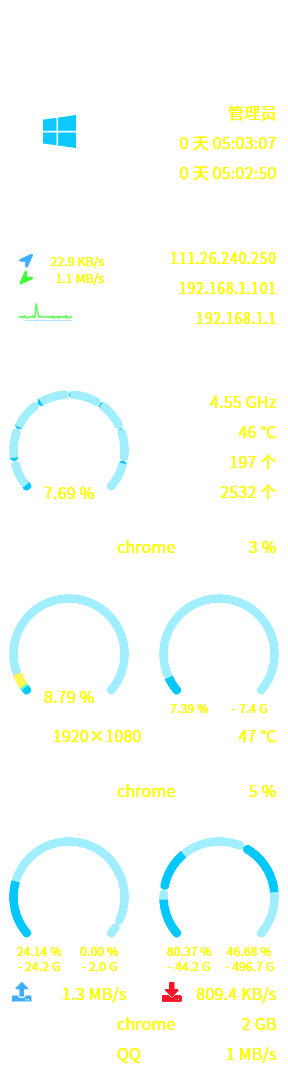
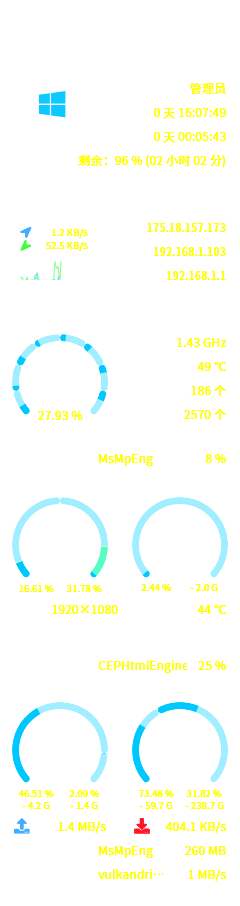
Fix the problem of wrong "Temperature Color"

diff --git a/README.md b/README.md
@@ -8,7 +8,7 @@
   <br />
[4 lines of base64/hex data omitted]
 </p>
 <br />
 
@@ -27,7 +27,7 @@
   <img src="Images/0.png" alt="详细系统监控 v3.0" title="详细系统监控 v3.0" width="900"/>
 </p>
 
-该皮肤目前最新版本为 **3.3**。该版本新增了对 Intel CPU 温度的监测；新增了隐藏广域网IP地址的功能；使用了一个新插件来进一步提高对显卡相关信息检测的准确度；优化修复一些已知问题。详细内容请查看 [**更新笔记**](Documents/History.md)。
+该皮肤目前最新版本为 **3.4**。该版本优化修复一些已知问题。详细内容请查看 [**更新笔记**](Documents/History.md)。
 
 
 ### 运行要求
@@ -43,9 +43,9 @@
 
 ### 安装方法
 
-　　本皮肤的官方发行版会使用 Rainmeter 自带皮肤打包器进行打包，安装包扩展名为 `.rmskin`。已经拥有 Rainmeter 软件的用户可在此仓库直接 [**下载**](../../releases/download/v3.3/DetailedSystemMonitor_v_3.3.rmskin) 最新的版本安装包到您的计算机，直接双击文件安装。
+　　本皮肤的官方发行版会使用 Rainmeter 自带皮肤打包器进行打包，安装包扩展名为 `.rmskin`。已经拥有 Rainmeter 软件的用户可在此仓库直接 [**下载**](../../releases/download/v3.4/DetailedSystemMonitor_v_3.4.rmskin) 最新的版本安装包到您的计算机，直接双击文件安装。
 
-*  **Windows 7** 操作系统用户安装皮肤后，还需要安装 [**字体修复补丁**](../../releases/download/v3.3/DetailedSystemMonitor_v_FixFont.rmskin)，下载完成直接安装即可。**Windows 10** 操作系统用户无需安装该补丁。
+*  **Windows 7** 操作系统用户安装皮肤后，还需要安装 [**字体修复补丁**](../../releases/download/v3.4/DetailedSystemMonitor_v_FixFont.rmskin)，下载完成直接安装即可。**Windows 10** 操作系统用户无需安装该补丁。
 
 *  安装皮肤时，请注意选择适合您计算机显卡设备的插件：若您的计算机存在 **NVIDIA** 显卡，请在插件栏中只勾选 `NvidiaGPU.dll`（如下图所示）；**AMD** 显卡同理。若您的计算机并非 **Intel** 平台，请取消勾选 `CPUTemp.dll`。
 

diff --git a/Documents/History.md b/Documents/History.md
@@ -2,6 +2,11 @@
 
 
 
+#### 2021年4月13日
+
+<img src="https://img.shields.io/badge/-%E4%BF%AE%E5%A4%8D-yello?style=plastic" alt="修复" align="top" height="24" />　　修复了“Intel核显温度”始终为红色的问题。
+
+
 #### 2021年2月16日 - Version 3.3
 > 基于Rainmeter 4.3 r3266
 

diff --git a/Source/CPUTemp/README.md b/Source/CPUTemp/README.md
@@ -1,1 +1,1 @@
-来自：https://github.com/jmdyz/CPUTemp.git
+* *来自 <a href="https://github.com/jmdyz/CPUTemp"><img src="https://img.shields.io/badge/-CPUTemp-rgba(240%2C246%2C252%2C40%25)?logo=github&logoColor=333333" alt="CPUTemp" align="top" height="24" /></a> .*
